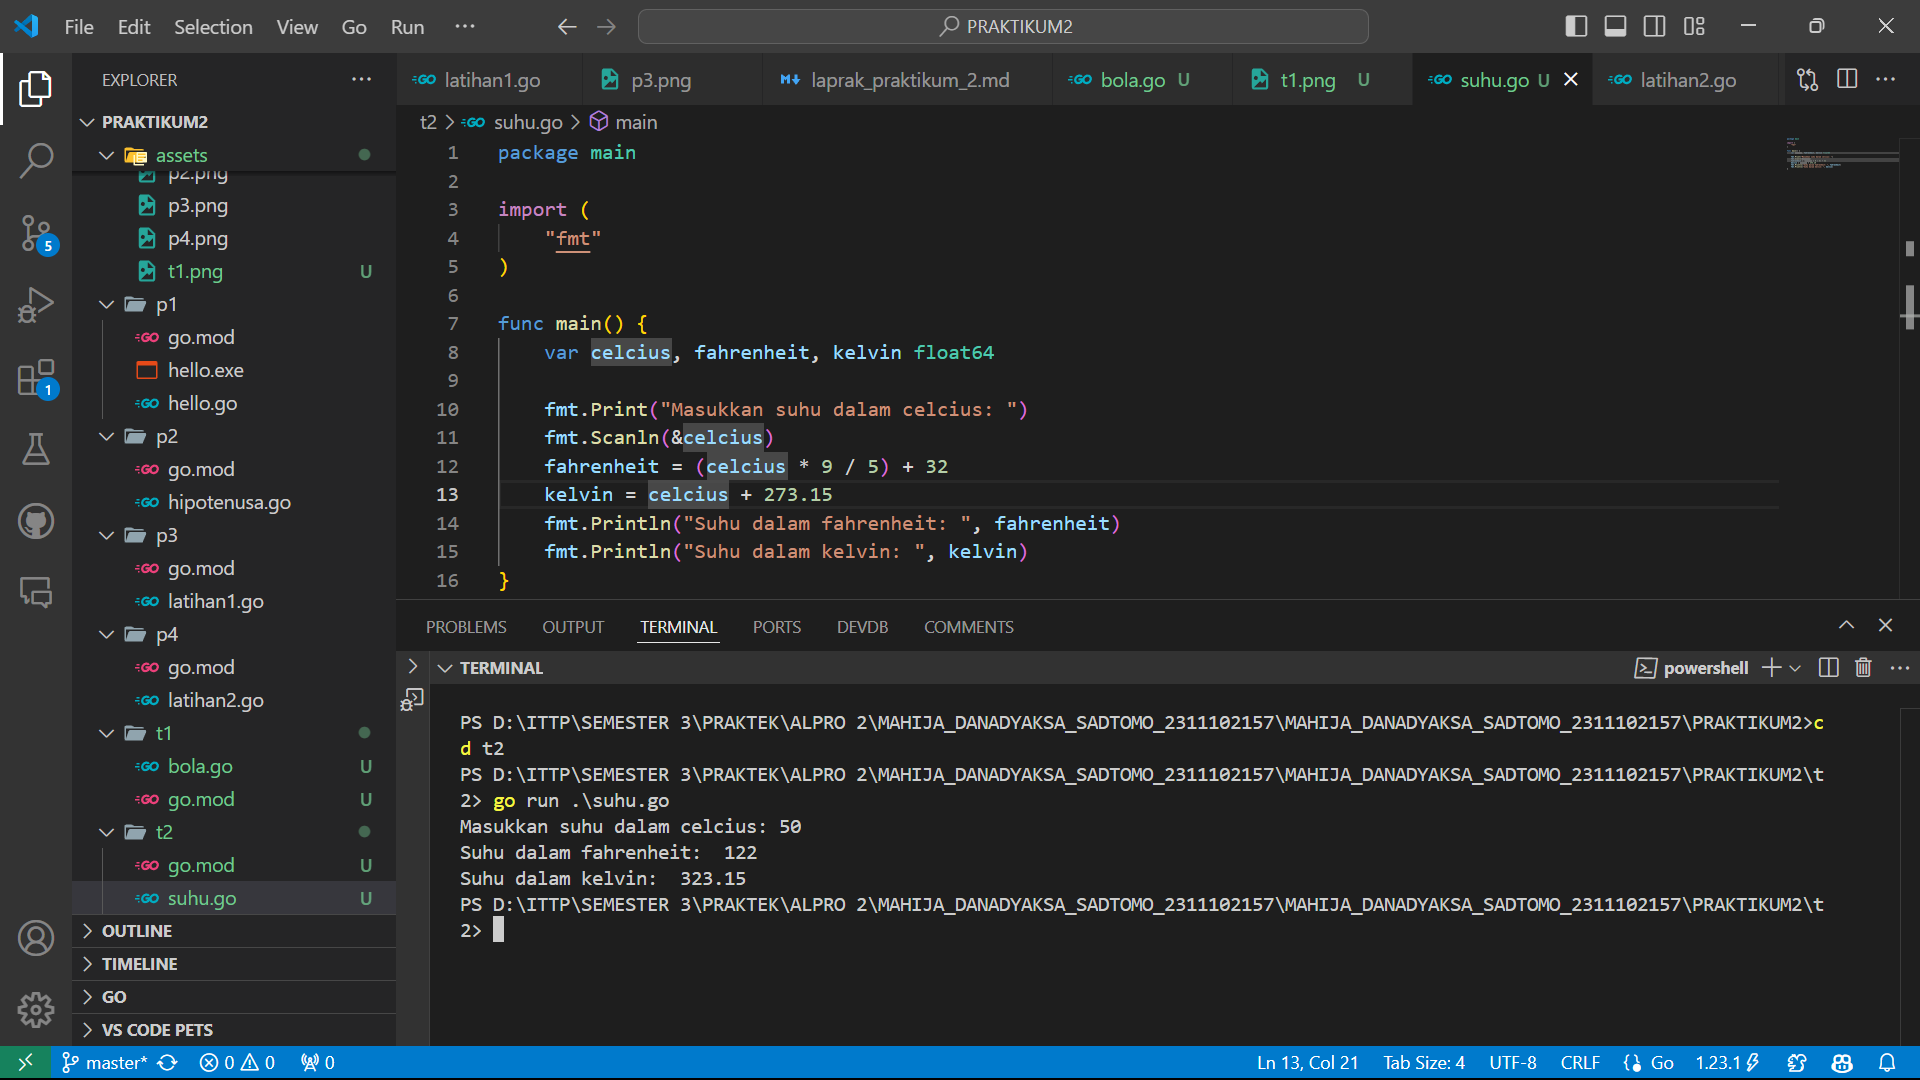
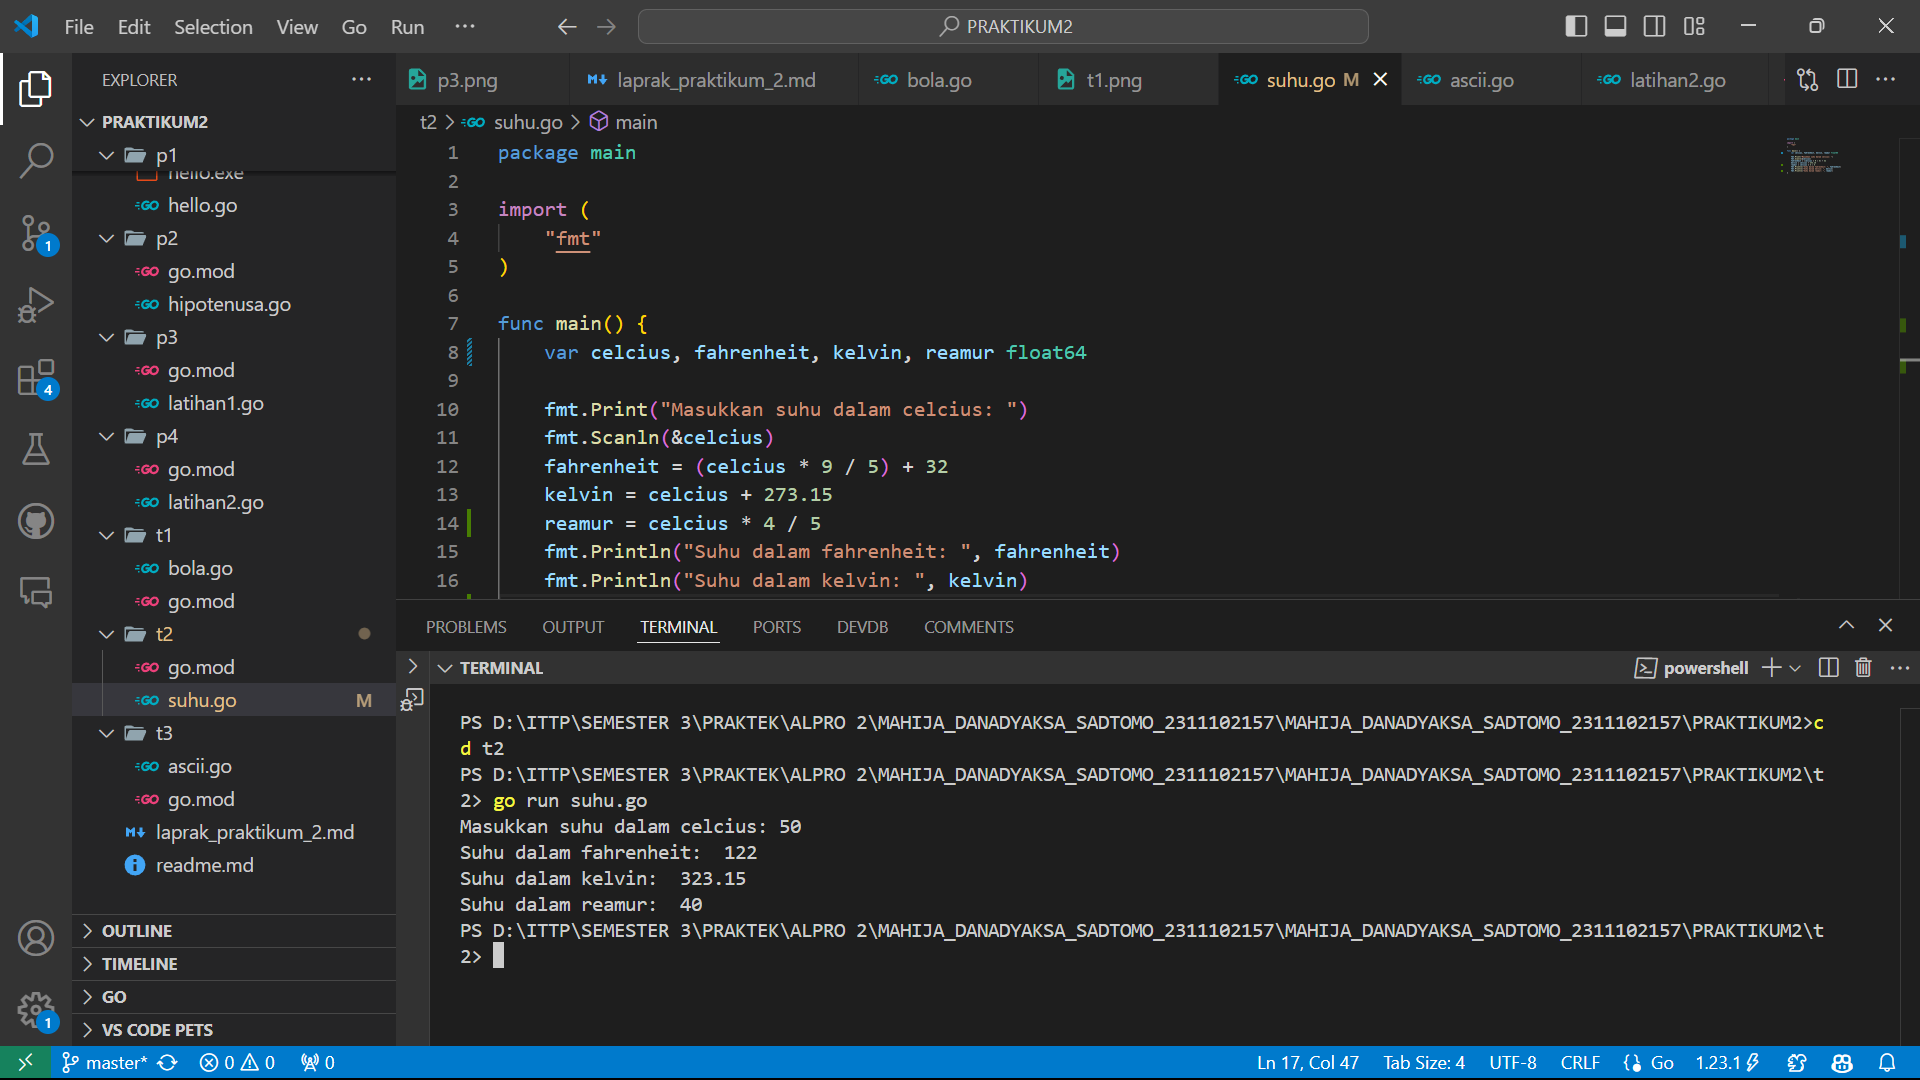
100%

diff --git a/PRAKTIKUM2/t2/suhu.go b/PRAKTIKUM2/t2/suhu.go
@@ -5,12 +5,14 @@ import (
 )
 
 func main() {
-	var celcius, fahrenheit, kelvin float64
+	var celcius, fahrenheit, kelvin, reamur float64
 
 	fmt.Print("Masukkan suhu dalam celcius: ")
 	fmt.Scanln(&celcius)
 	fahrenheit = (celcius * 9 / 5) + 32
 	kelvin = celcius + 273.15
+	reamur = celcius * 4 / 5
 	fmt.Println("Suhu dalam fahrenheit: ", fahrenheit)
 	fmt.Println("Suhu dalam kelvin: ", kelvin)
+	fmt.Println("Suhu dalam reamur: ", reamur)
 }
